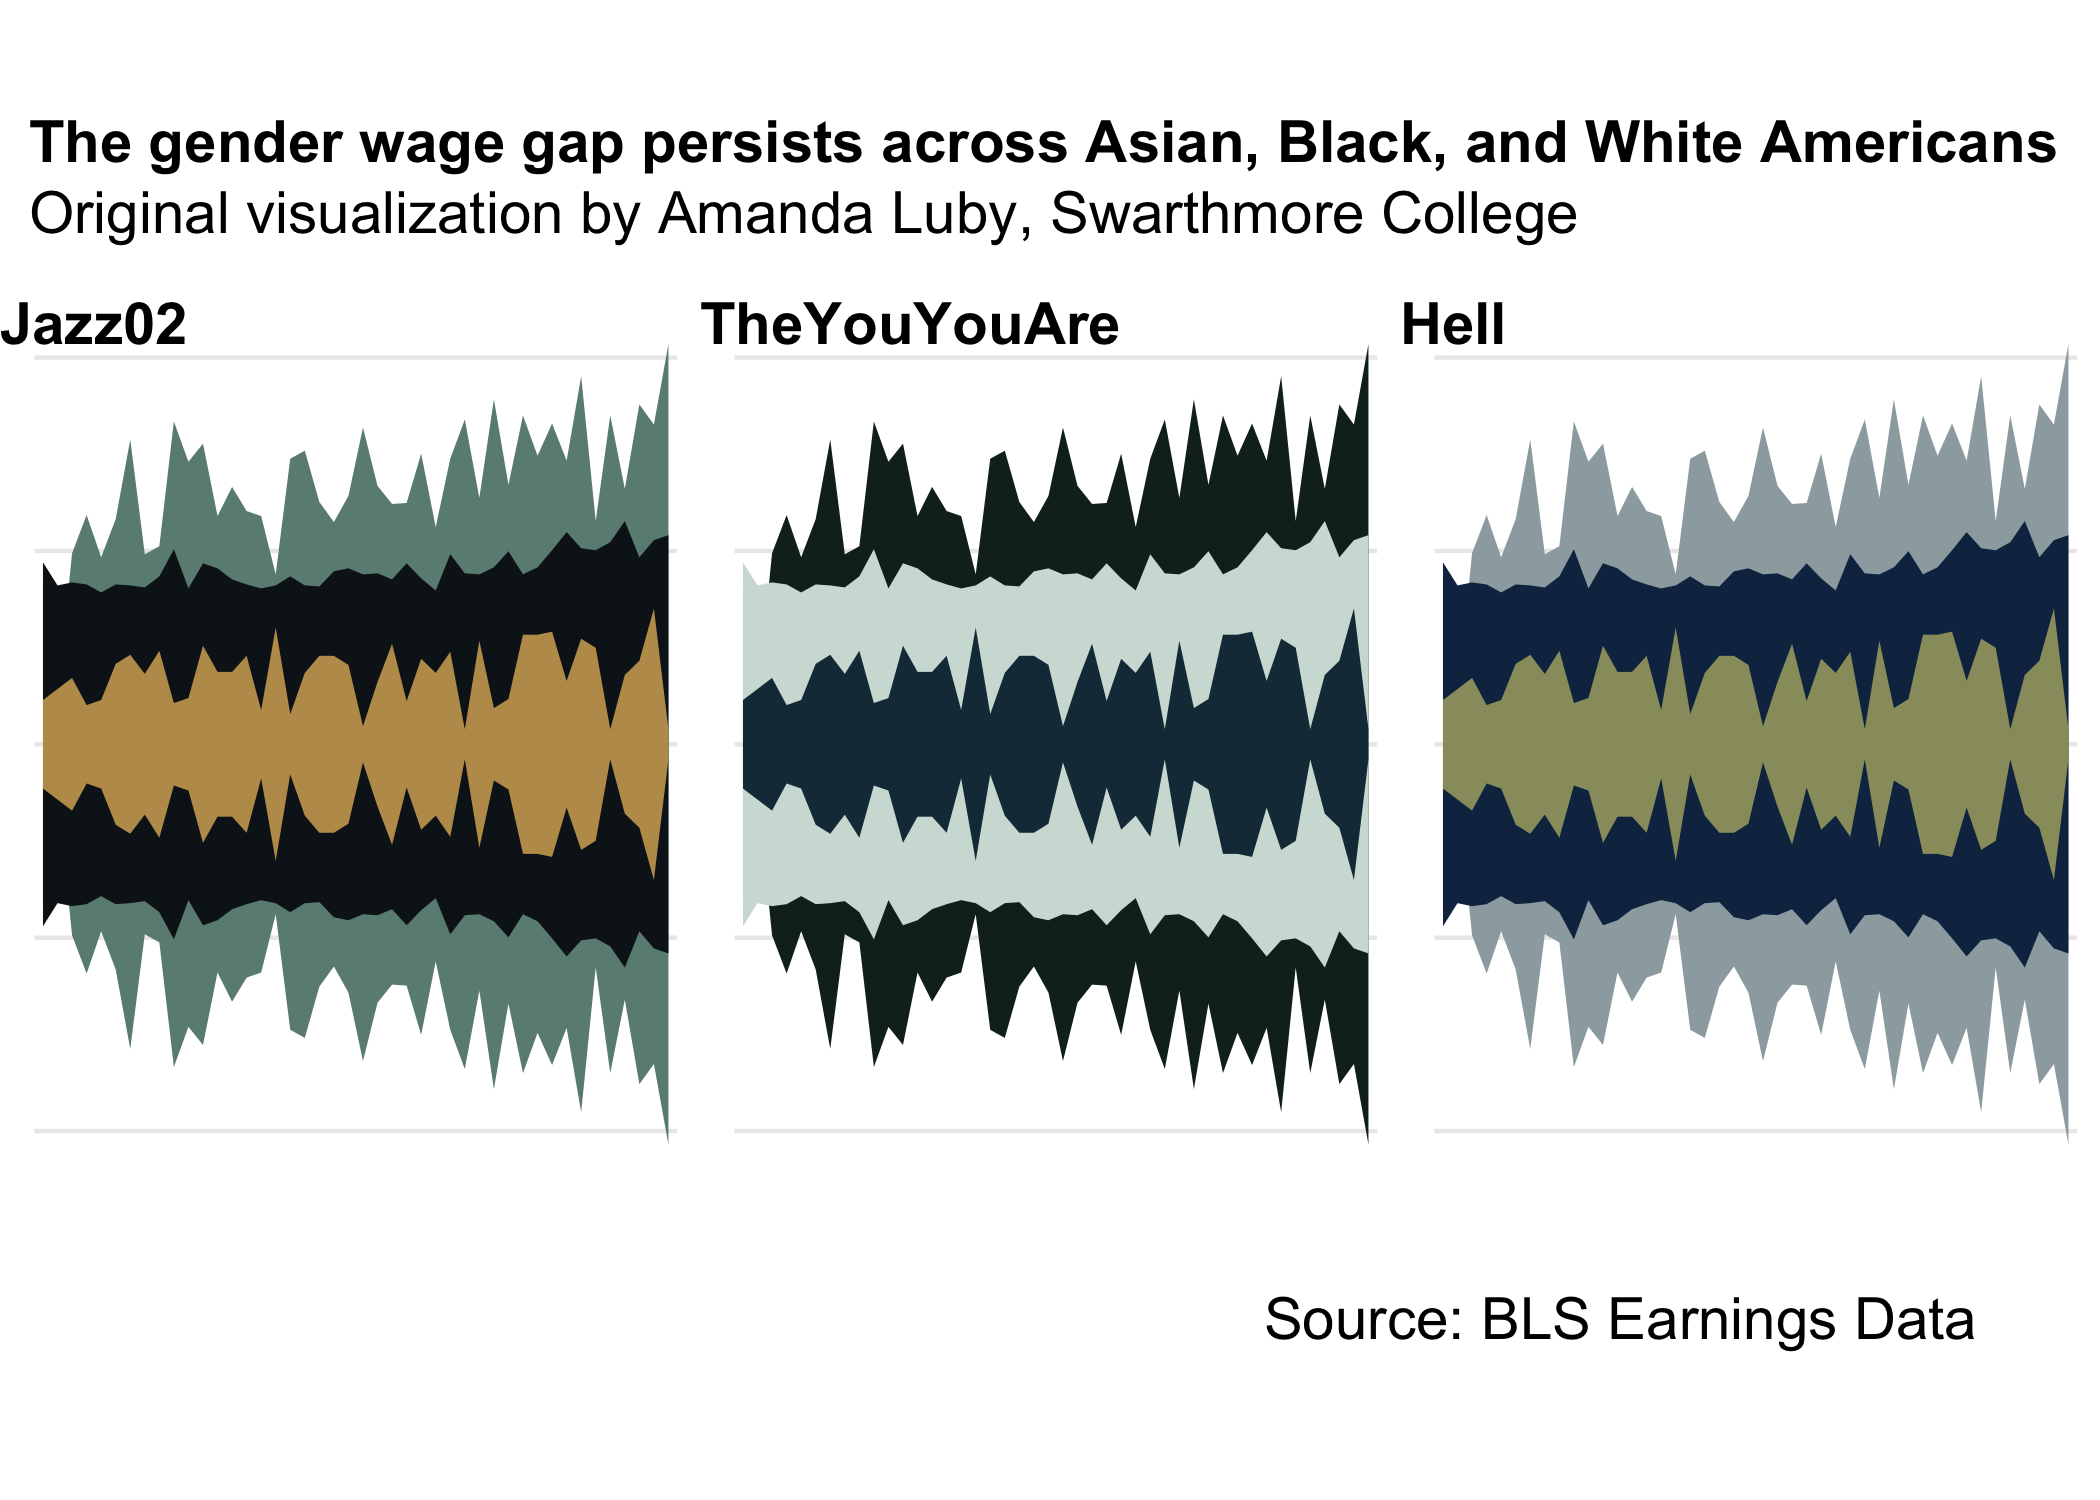
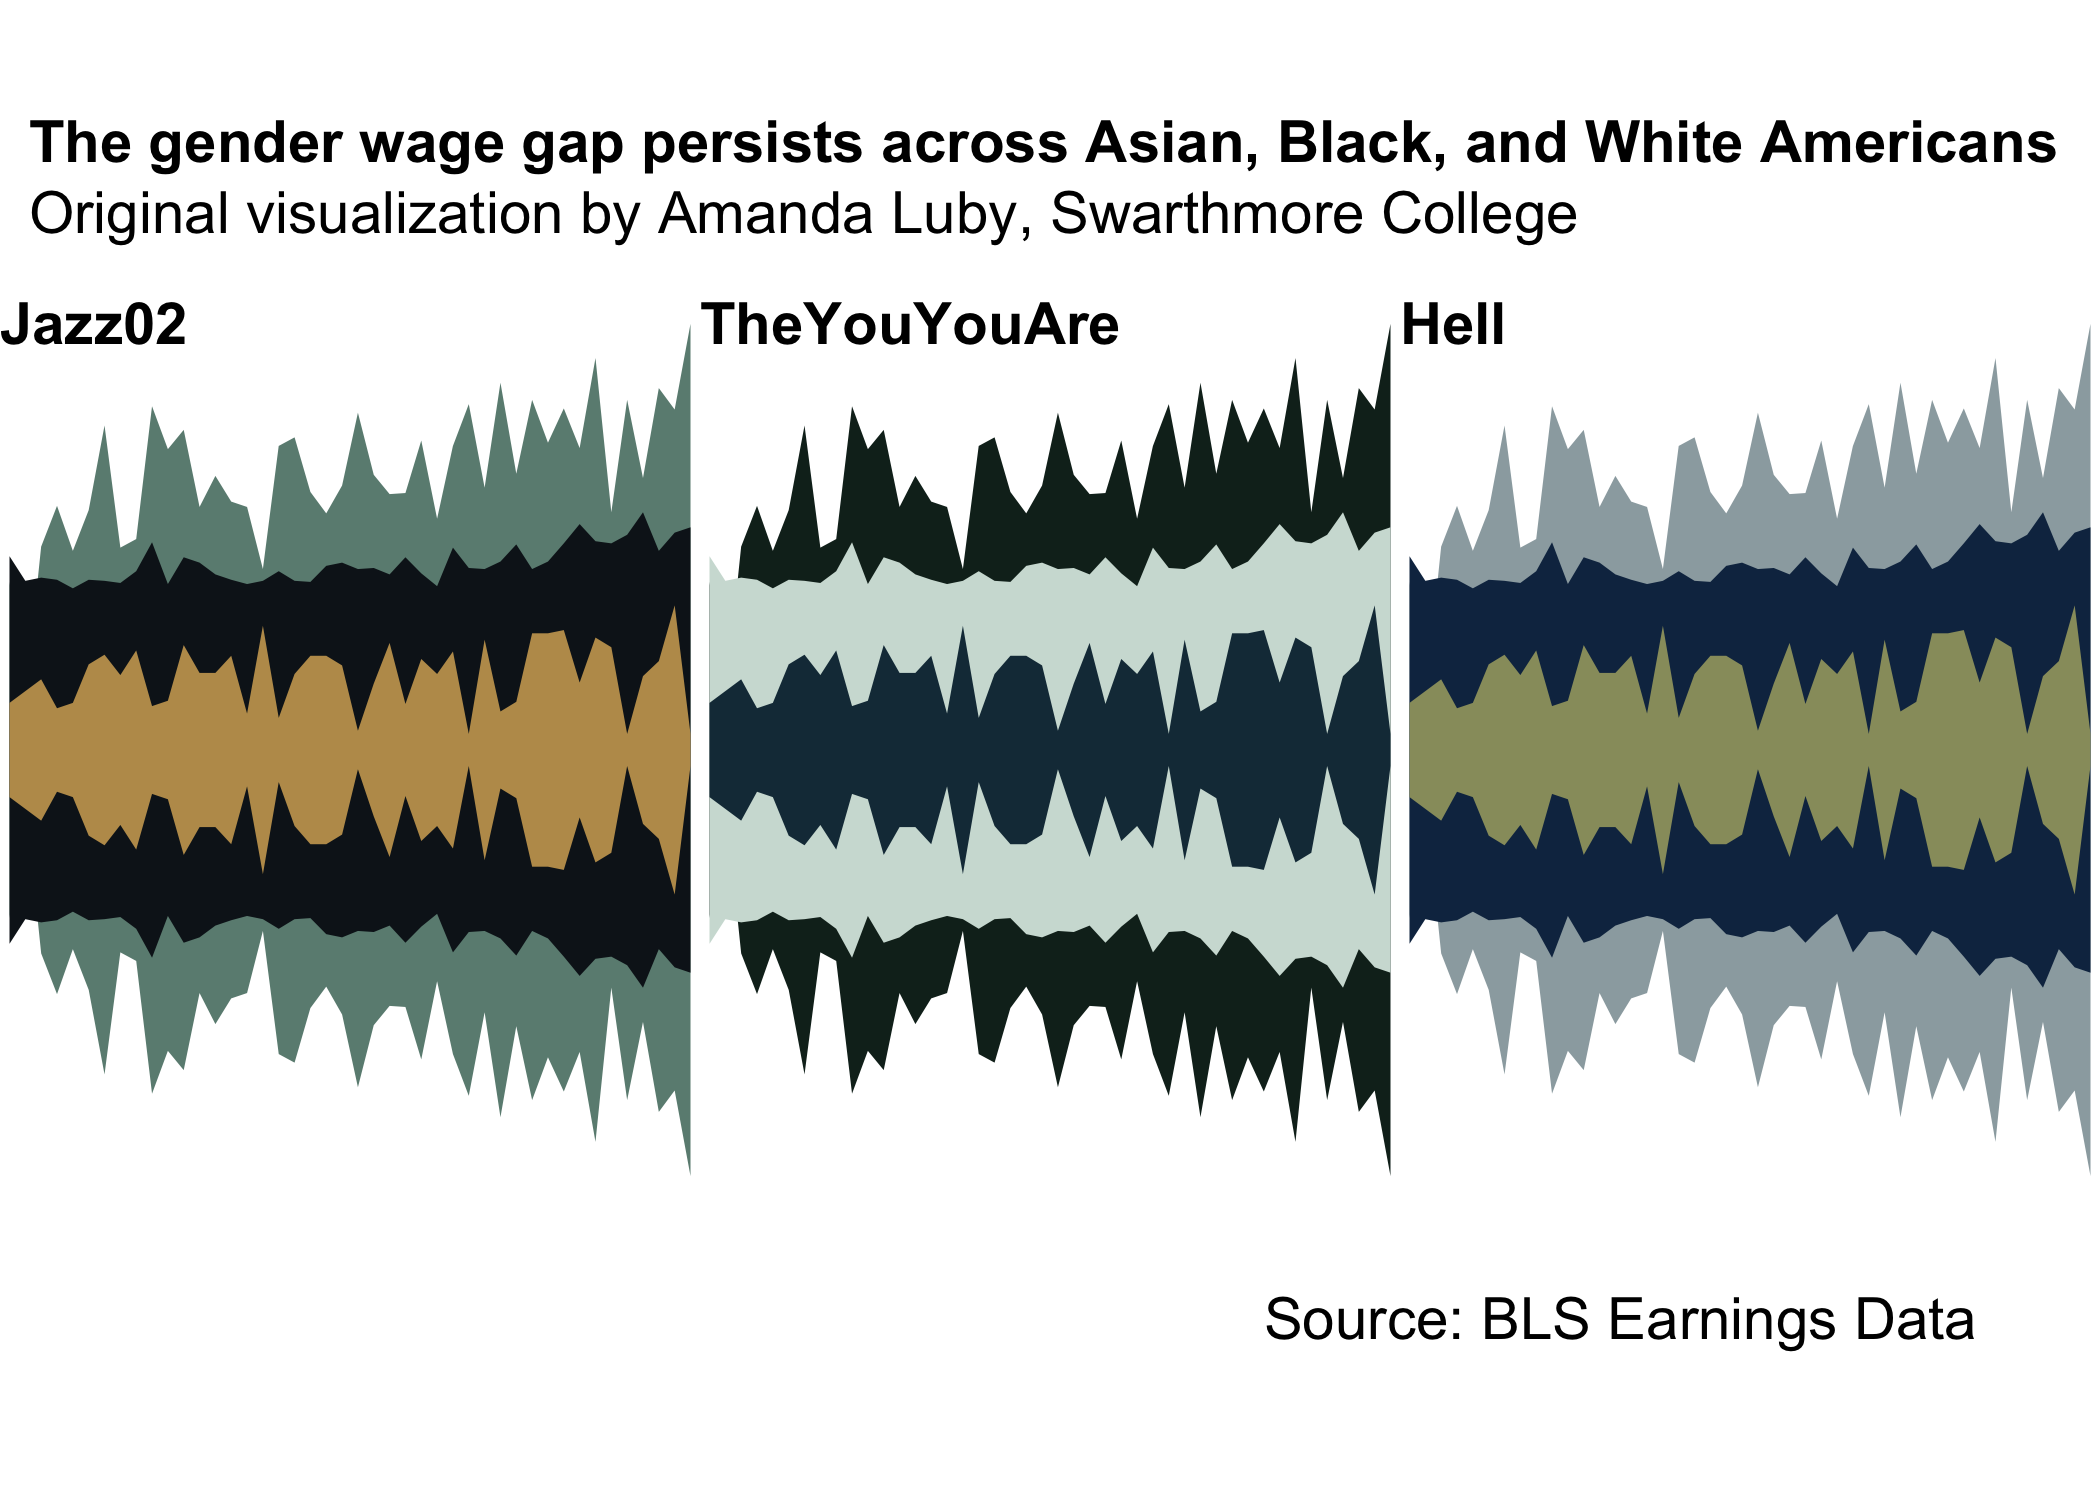
Update README

Changed region(s): [[0.0, 0.2147, 1.0, 0.7667]]

diff --git a/README.md b/README.md
@@ -14,7 +14,7 @@ the [wesanderson package](https://github.com/karthik/wesanderson) by
 Karthik Ram.
 
 -   [Installation](#installation)
--   [Example](#example)
+-   [Examples](#examples)
 -   [Palettes](#palettes)
 -   [Notes](#notes)
 
@@ -28,15 +28,15 @@ You can install the development version of severance from
 devtools::install_github("ivelasq/seveRance")
 ```
 
-## Example
+## Examples
 
-Below is an example using [TidyTuesday
+Here are examples of the severange package using [TidyTuesday
 data](https://github.com/rfordatascience/tidytuesday/blob/master/data/2021/2021-02-23/readme.md)
 from the Bureau of Labor Statistics. The plot is based on one created by
 Amanda Luby from the [Swarthmore College Data Visualization
 Group](https://aluby.domains.swarthmore.edu/sdv/posts/2021-03-05-bls-earnings-data/).
 
-<img src="man/figures/README-plot-ref-1.png" width="100%" />
+<img src="man/figures/README-plot-ref-1.png" title="Three steamplots showing the gender disparity between races displayed in three different palettes from the severance package" alt="Three steamplots showing the gender disparity between races displayed in three different palettes from the severance package" width="100%" />
 
 The code to reproduce the plot is below:
 
@@ -83,16 +83,8 @@ p <-
            group = race
          )) +
   geom_ribbon() +
-  theme_minimal() +
-  theme(
-    legend.position = "none",
-    axis.title.x = element_blank(),
-    axis.title.y = element_blank(),
-    axis.text.x = element_blank(),
-    axis.text.y = element_blank(),
-    panel.grid.minor = element_blank(),
-    panel.grid.major.x = element_blank()
-  )
+  theme_void() +
+  theme(legend.position = "none")
 
 p1 <- p + scale_fill_manual(values = severance_palette("Jazz02"))
 p2 <- p + scale_fill_manual(values = severance_palette("TheYouYouAre"))
